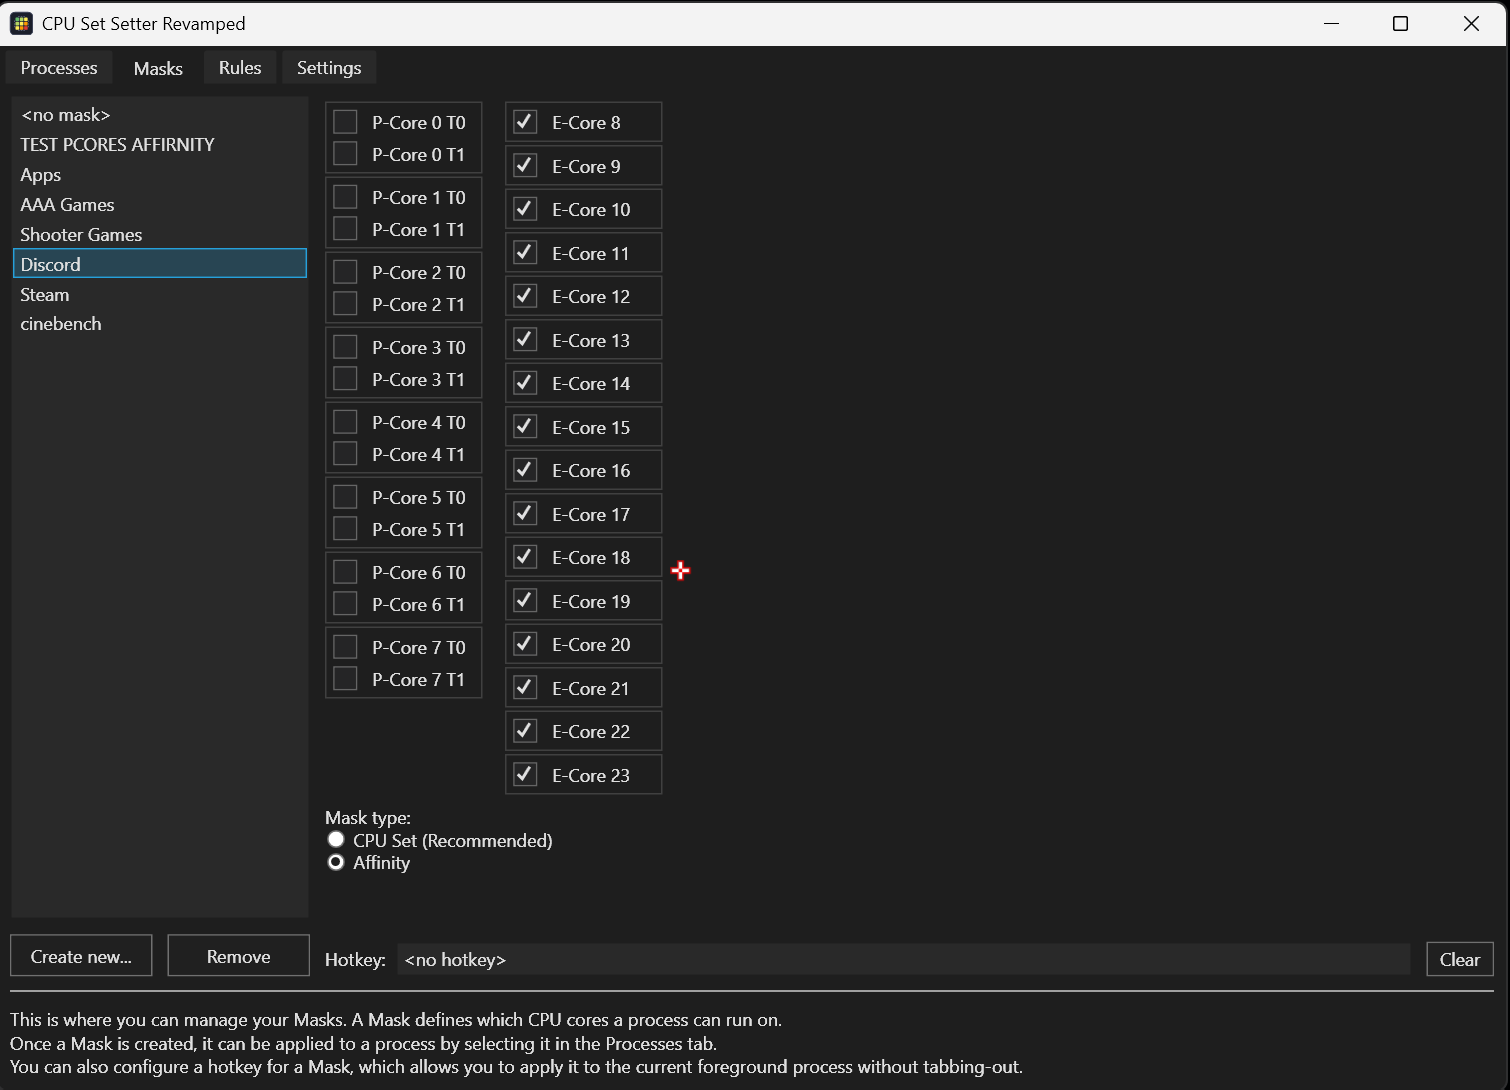
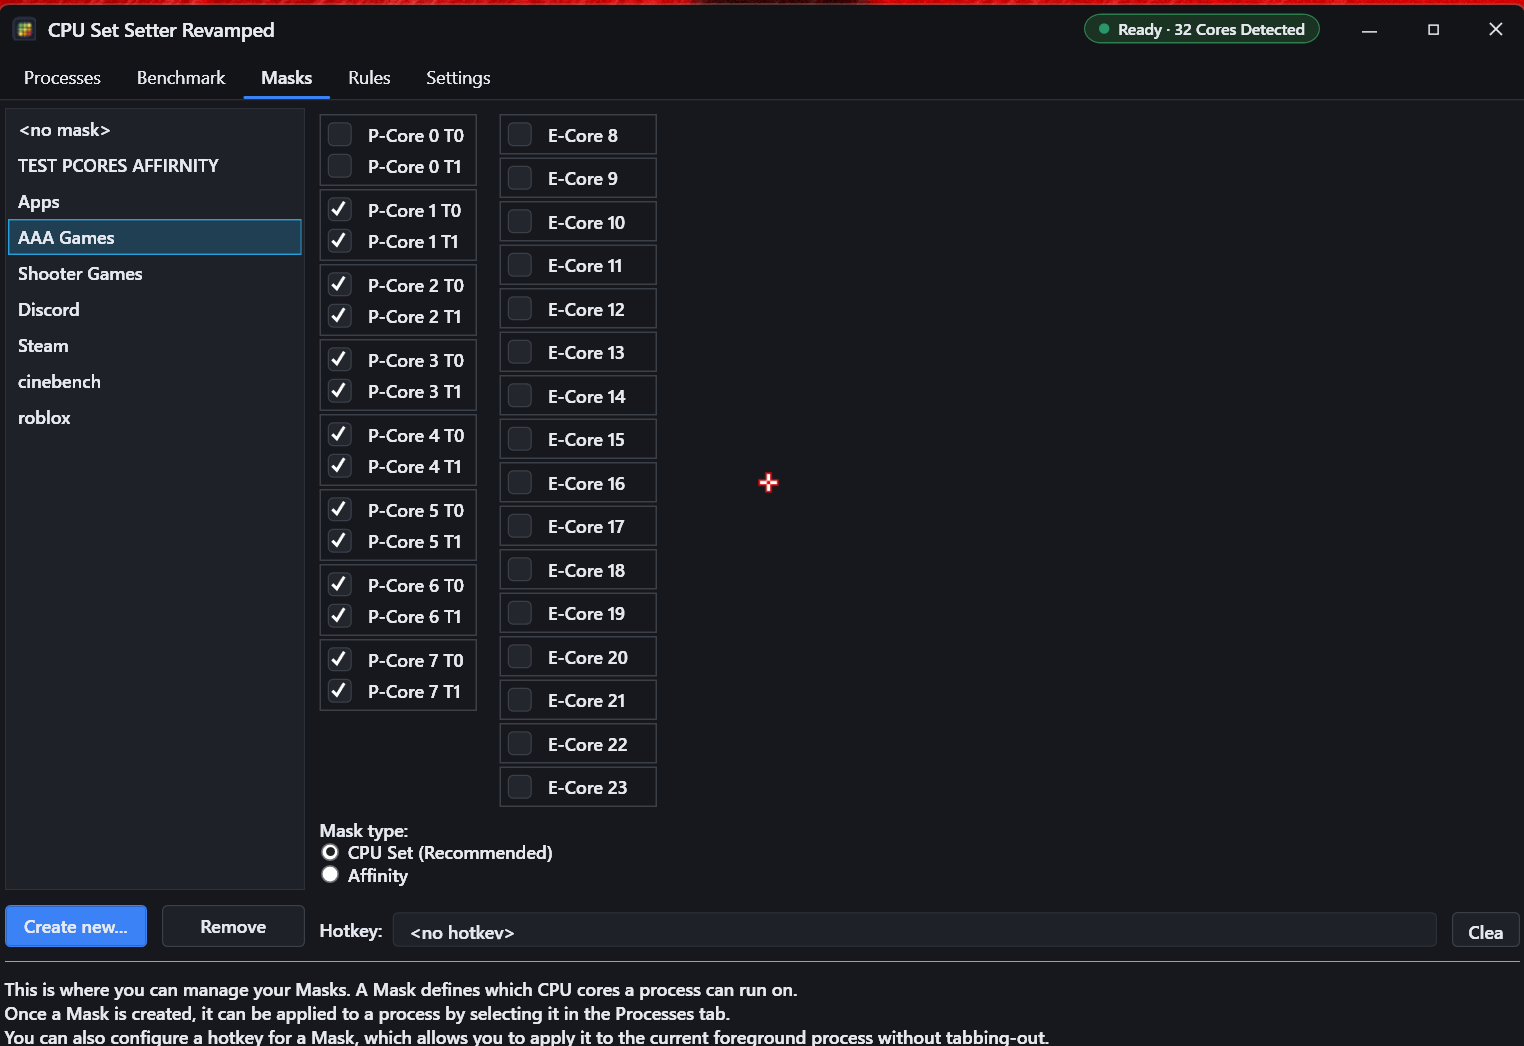
Update README screenshots to showcase the revamped UI
Replaced the Processes/Masks/Rules screenshots with the current UI and added Benchmark and Settings tab screenshots.

Changed region(s): [[0.0, 0.0, 1.0, 1.0], [0.498, 0.4589, 0.5291, 0.4895]]

diff --git a/README.md b/README.md
@@ -58,11 +58,21 @@ To most optimally use CPU Set Setter Revamped, you may have to first follow some
 [Intel CPU setup](docs/setup/Intel.md)
 
 # Screenshots
-![](Images/ProcessesTab.png)
 
-![](Images/MasksTab.png)
+### Processes tab
+![Processes tab](Images/ProcessesTab.png)
 
-![](Images/RulesTab.png)
+### Masks tab
+![Masks tab](Images/MasksTab.png)
+
+### Rules tab
+![Rules tab](Images/RulesTab.png)
+
+### Benchmark tab
+![Benchmark tab](Images/BenchmarkTab.png)
+
+### Settings tab
+![Settings tab](Images/SettingsTab.png)
 
 # CPU Sets vs Affinity
 But what are these CPU Sets you speak of? Aren't they just Affinities?
